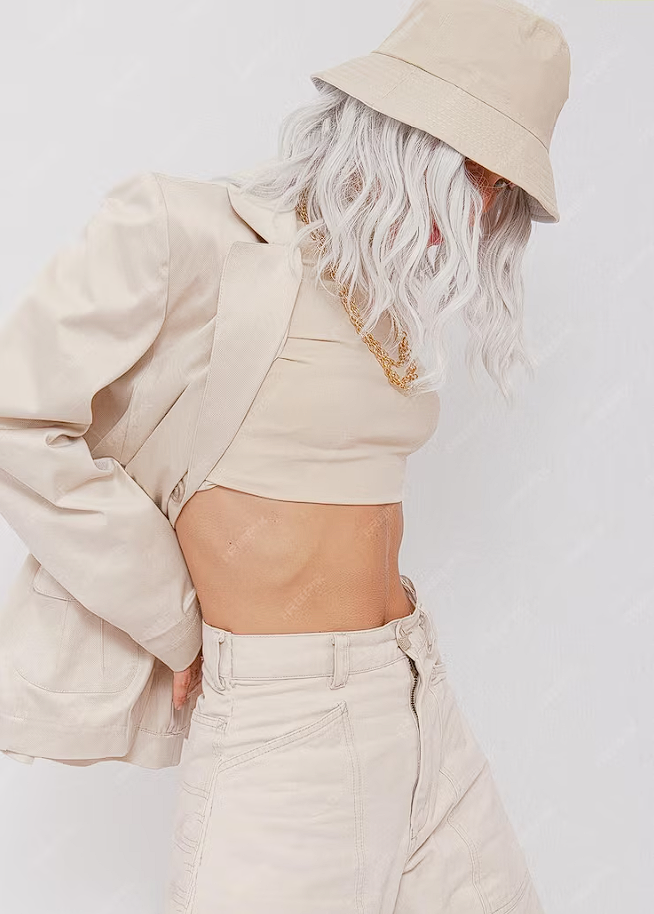
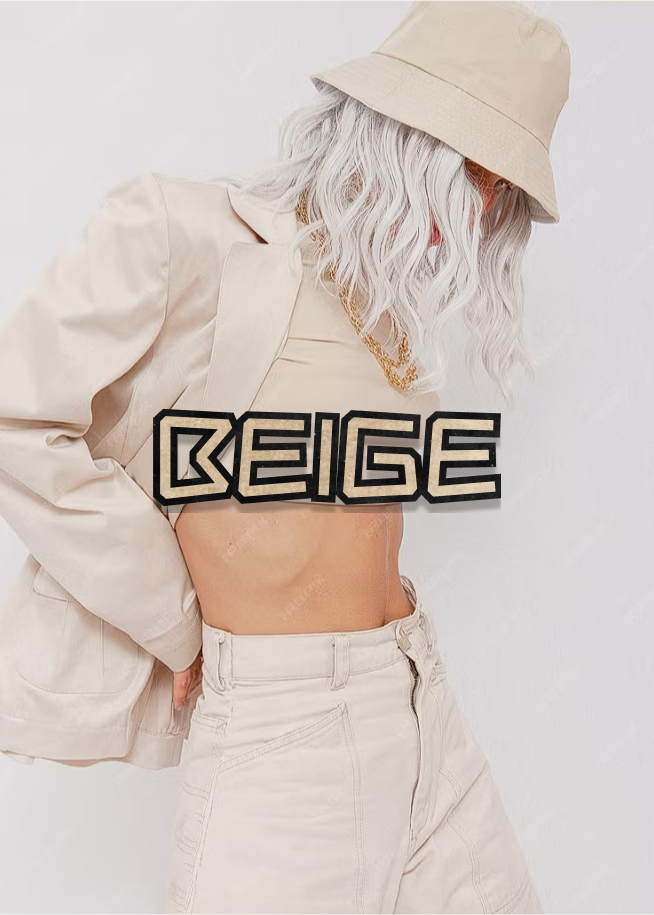
Voy a mergear esta rama con la develop

Changed region(s): [[0.2141, 0.4289, 0.7645, 0.5821], [0.5505, 0.3676, 0.581, 0.3982], [0.5199, 0.1838, 0.5505, 0.2144]]

diff --git a/public/css/home.css b/public/css/home.css
@@ -49,7 +49,23 @@
 .home .contenedor-imagenes .img8 {
 }
 /* Seccion de capsulas */
+.home .titulo-capsula {
+    display: none;
+    
+}
+.home .capsulas {
+}
+/* BEIGE CAP*/
 
+.home .foto-capsula-beige {width: calc(50% - 5px);}
+
+/* AMERICAN DREAM CAP */
+
+.home .foto-capsula-american-dream {width: calc(50% - 5px);display: inline;}
+
+/* 3024 */
+
+.home .foto-capsula-3024 {display: none;}
 /* -- */
 .home .mostrar-mas-productos {
   font-size: 115%;
@@ -165,6 +181,10 @@
 
   .home .titulo-capsula {
     display: block;
+  }
+
+  .home .titulo-capsula {
+    display: block;
 
     text-align: center;
 
@@ -175,56 +195,25 @@
   }
 
   .home .capsulas {
-    display: flex;
-    width: 100%;
-    flex-direction: column;
-    flex-wrap: wrap;
-    align-content: stretch;
+    margin: 10px 0px;
   }
 
   /* BEIGE CAP*/
-  .home .capsula-beige {
-    position: relative;
-    width: calc(50% - 5px);
-  }
 
   .home .foto-capsula-beige {
-    width: 100%;
-    position: absolute;
-  }
-
-  .home img.cap-beige-title {
-    position: absolute;
   }
 
   /* AMERICAN DREAM CAP */
-  .home .capsula-americanDream {
-    width: calc(50% - 5px);
-    position: relative;
-  }
-  .home img.foto-capsula-american-dream {
-    position: absolute;
-    width: 100%;
-  }
 
-  .home img.cap-americanDream-title {
-    position: absolute;
+  .home .foto-capsula-american-dream {
+  object-fit: contain;
   }
 
   /* 3024 */
-  .home .capsula-3024 {
-    width: calc(70% - 5px);
-    margin: auto;
-    position: relative;
-  }
 
-  .home img.foto-capsula-3024 {
-    width: 100%;
-    position: absolute;
-  }
-
-  .home img.cap-3024-title {
-    position: absolute;
+  .home .foto-capsula-3024 {
+  display: inline;
+  width: 80%;
   }
 
   /* -- */
@@ -327,14 +316,25 @@
   }
   .home .capsulas {
     margin-top: 10%;
+    width: 100%;
   }
-  .home .foto-capsula-beige {
+  /* BEIGE CAP*/
+
+  .foto-capsula-beige {
+    width: calc(30%);
   }
 
-  .home .foto-capsula-american-dream {
+  /* AMERICAN DREAM CAP */
+
+  .foto-capsula-american-dream {
+    width: calc(30%);
   }
 
-  .home .foto-capsula-3024 {
+  /* 3024 */
+
+  .foto-capsula-3024 {
+    width: calc(30%);
+    display: inline;
   }
   /* -- */
   .home .mostrar-mas-productos {

diff --git a/views/home.html b/views/home.html
@@ -102,31 +102,19 @@
       
 
       <!-- Seccion de capsulas -->
-    <!-- <div class="capsulas">   -->
-      <div>   
-        <img class="titulo-capsula" src="/images/titulo-capsulas.png" alt="titulo-capsulas"/>
-      </div>
-        
-        <div class="capsula-beige">    
-        <img class="cap-foto foto-capsula-beige" src="/images/capsula-1.png" alt="capsula-1"/>
-        <img src="/images/beige-titulo.png" alt="cap-beige-title" class="cap-beige-title">
-        </div>
+  
+    <img class="titulo-capsula" src="/images/titulo-capsulas.png" alt="titulo-capsulas"/>  
+    
+    <div class="capsulas">
+
+    <img class="cap-foto foto-capsula-beige" src="/images/capsula-1.png" alt="capsula-1"/> 
+
+    <img class="cap-foto foto-capsula-american-dream" src="/images/capsula-2.png" alt="capsula-2"/>
+     
+    <img class="cap-foto foto-capsula-3024" src="/images/capsula-3.png" alt="capsula-3"/>
+
+    </div>
       
-
-
-      <div class="duo-cap-img">
-        <div class="capsula-americanDream">    
-        <img class="cap-foto foto-capsula-american-dream" src="/images/capsula-2.png" alt="capsula-2"/>
-        <img src="/images/american-titulo.png" alt="cap-americanDream-title" class="cap-americanDream-title"> 
-        </div>
-
-        <div class="capsula-3024">  
-        <img class="cap-foto foto-capsula-3024" src="/images/capsula-3.png" alt="capsula-3"/>
-        <img src="/images/3024-titulo.png" alt="cap-3024-title" class="cap-3024-title">
-        </div>
-
-      </div> 
-    <!-- </div>      -->
     
 
       <h2 class="mostrar-mas-productos">MOSTRAR MÁS PRODUCTOS</h2>      
